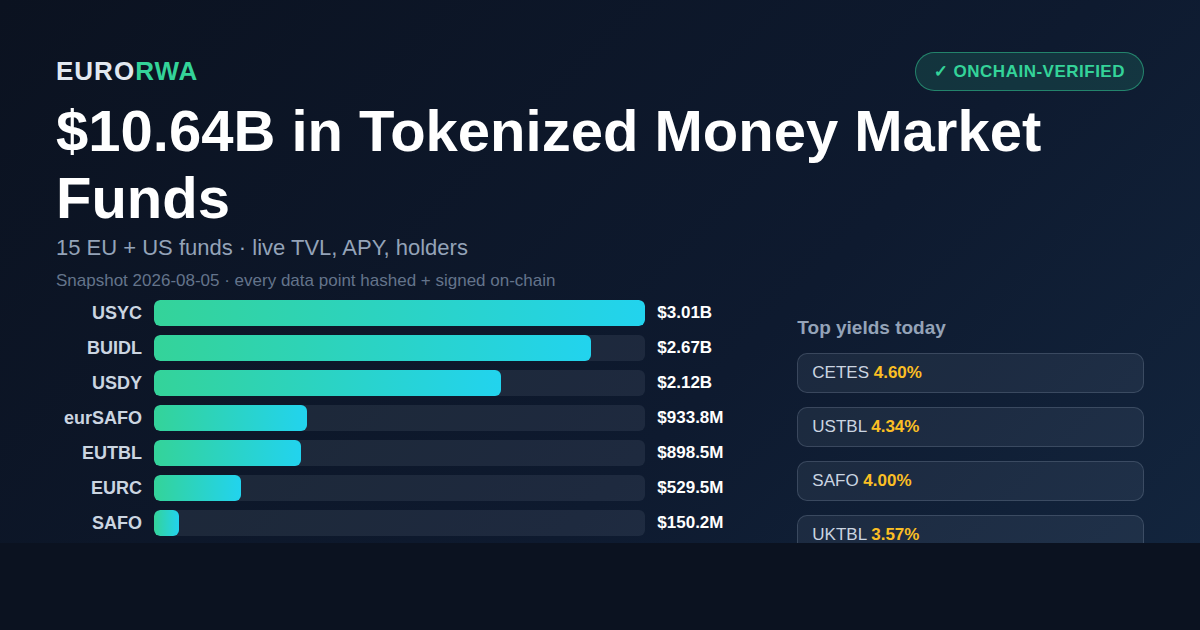
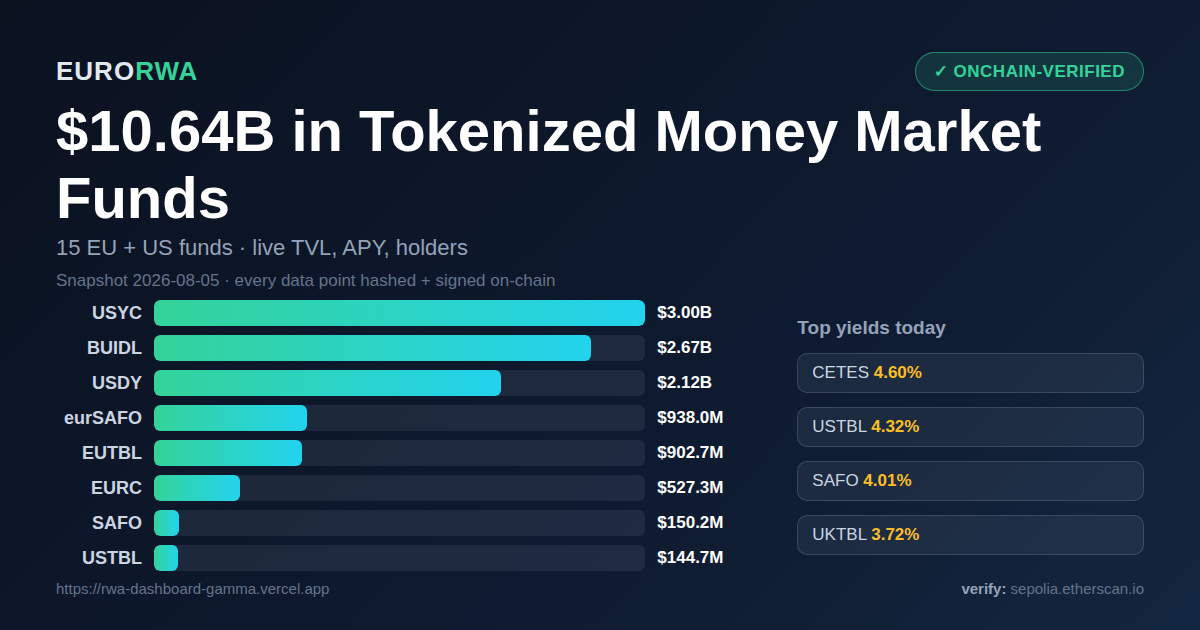
chore: pipeline 2026-08-05

diff --git a/docs/posts/2026-08-05/visual.html b/docs/posts/2026-08-05/visual.html
@@ -38,46 +38,46 @@ body{background:#0b1220;font-family:"Segoe UI",Arial,sans-serif;color:#e2e8f0;-w
     <div class="bar-row">
       <div class="bar-label">USYC</div>
       <div class="bar-track"><div class="bar-fill" style="width:100%"></div></div>
-      <div class="bar-val">$3.01B</div>
+      <div class="bar-val">$3.00B</div>
     </div>
     <div class="bar-row">
       <div class="bar-label">BUIDL</div>
-      <div class="bar-track"><div class="bar-fill" style="width:88.96483316275874%"></div></div>
+      <div class="bar-track"><div class="bar-fill" style="width:89.0397470620453%"></div></div>
       <div class="bar-val">$2.67B</div>
     </div>
     <div class="bar-row">
       <div class="bar-label">USDY</div>
-      <div class="bar-track"><div class="bar-fill" style="width:70.60148820856293%"></div></div>
+      <div class="bar-track"><div class="bar-fill" style="width:70.66836044410714%"></div></div>
       <div class="bar-val">$2.12B</div>
     </div>
     <div class="bar-row">
       <div class="bar-label">eurSAFO</div>
-      <div class="bar-track"><div class="bar-fill" style="width:31.05809258212833%"></div></div>
-      <div class="bar-val">$933.8M</div>
+      <div class="bar-track"><div class="bar-fill" style="width:31.225743321278408%"></div></div>
+      <div class="bar-val">$938.0M</div>
     </div>
     <div class="bar-row">
       <div class="bar-label">EUTBL</div>
-      <div class="bar-track"><div class="bar-fill" style="width:29.88366876766337%"></div></div>
-      <div class="bar-val">$898.5M</div>
+      <div class="bar-track"><div class="bar-fill" style="width:30.04904497470901%"></div></div>
+      <div class="bar-val">$902.7M</div>
     </div>
     <div class="bar-row">
       <div class="bar-label">EURC</div>
-      <div class="bar-track"><div class="bar-fill" style="width:17.61065347445668%"></div></div>
-      <div class="bar-val">$529.5M</div>
+      <div class="bar-track"><div class="bar-fill" style="width:17.552534919166035%"></div></div>
+      <div class="bar-val">$527.3M</div>
     </div>
     <div class="bar-row">
       <div class="bar-label">SAFO</div>
-      <div class="bar-track"><div class="bar-fill" style="width:4.994397980146461%"></div></div>
+      <div class="bar-track"><div class="bar-fill" style="width:4.998987099799539%"></div></div>
       <div class="bar-val">$150.2M</div>
     </div>
     <div class="bar-row">
       <div class="bar-label">USTBL</div>
-      <div class="bar-track"><div class="bar-fill" style="width:4.840148852369807%"></div></div>
-      <div class="bar-val">$145.5M</div>
+      <div class="bar-track"><div class="bar-fill" style="width:4.8172313718000455%"></div></div>
+      <div class="bar-val">$144.7M</div>
     </div></div>
     <div class="side">
       <div class="title">Top yields today</div>
-      <span class="chip">CETES <b>4.60%</b></span><span class="chip">USTBL <b>4.34%</b></span><span class="chip">SAFO <b>4.00%</b></span><span class="chip">UKTBL <b>3.57%</b></span>
+      <span class="chip">CETES <b>4.60%</b></span><span class="chip">USTBL <b>4.32%</b></span><span class="chip">SAFO <b>4.01%</b></span><span class="chip">UKTBL <b>3.72%</b></span>
     </div>
   </div>
   <div class="foot"><span>https://rwa-dashboard-gamma.vercel.app</span><span><b>verify:</b> sepolia.etherscan.io</span></div>

diff --git a/docs/posts/2026-08-05/ready.md b/docs/posts/2026-08-05/ready.md
@@ -6,9 +6,9 @@
 ## X (Twitter)
 
 Tokenized MMFs: $10.64B across 15 EU/US funds (2026-08-05)
-🥇 USYC $3.01B
-📈 Top yield: CETES 4.60% · USTBL 4.34% · SAFO 4.00%
-🔄 7d: eurSAFO +3.70%
+🥇 USYC $3.00B
+📈 Top yield: CETES 4.60% · USTBL 4.32% · SAFO 4.01%
+🔄 7d: eurSAFO +3.09%
 Onchain-verified daily: https://rwa-dashboard-gamma.vercel.app
 #RWA #Tokenization #MoneyMarketFunds
 
@@ -23,16 +23,16 @@ Live data, refreshed daily (onchain-verified — each snapshot is hashed + signe
 Top 5 by TVL:
 | Ticker | TVL | APY | 7d | Holders |
 |---|---|---|---|---|
-| USYC | $3.01B | 3.19% | 0.04% | 38 |
-| BUIDL | $2.67B | 3.38% | 2.54% | 114 |
-| USDY | $2.12B | 3.49% | -0.04% | 15559 |
-| eurSAFO | $933.8M | 2.53% | 3.70% | 7394 |
-| EUTBL | $898.5M | 2.21% | -4.27% | 3824 |
+| USYC | $3.00B | 3.19% | -0.05% | 38 |
+| BUIDL | $2.67B | 3.38% | 1.40% | 114 |
+| USDY | $2.12B | 3.49% | -0.04% | 15579 |
+| eurSAFO | $938.0M | 2.54% | 3.09% | 7409 |
+| EUTBL | $902.7M | 2.13% | -2.66% | 3817 |
 
-Top yields: CETES 4.60%, USTBL 4.34%, SAFO 4.00%, UKTBL 3.57%, USDY 3.49%
-Biggest 7d mover: eurSAFO +3.70%, EUTBL -4.27%
+Top yields: CETES 4.60%, USTBL 4.32%, SAFO 4.01%, UKTBL 3.72%, USDY 3.49%
+Biggest 7d mover: eurSAFO +3.09%, EUTBL -2.66%
 
-What the numbers mean: $7.80B (~73%) is in just 3 funds. Yields span 2.39 points (2.21% → 4.60%). USDY has 15,559 holders vs 114 for BUIDL.
+What the numbers mean: $7.80B (~73%) is in just 3 funds. Yields span 2.46 points (2.13% → 4.60%). USDY has 15,579 holders vs 114 for BUIDL.
 
 Dashboard: https://rwa-dashboard-gamma.vercel.app
 Repo (attestation code): https://github.com/crytobot459/eurorwa
@@ -50,20 +50,20 @@ I built a live dashboard to change that. Here's what the data says today, and th
 THE NUMBERS (2026-08-05)
 
 $10.64B across 15 EU + US funds:
-• USYC (Circle) — $3.01B · yield 3.19%
+• USYC (Circle) — $3.00B · yield 3.19%
 • BUIDL (BlackRock) — $2.67B · yield 3.38%
 • USDY (Ondo) — $2.12B · yield 3.49%
-• eurSAFO (Spiko) — $933.8M · yield 2.53%
-• EUTBL (Spiko) — $898.5M · yield 2.21%
+• eurSAFO (Spiko) — $938.0M · yield 2.54%
+• EUTBL (Spiko) — $902.7M · yield 2.13%
 
-Top yields today: CETES 4.60% · USTBL 4.34% · SAFO 4.00% · UKTBL 3.57% · USDY 3.49%
+Top yields today: CETES 4.60% · USTBL 4.32% · SAFO 4.01% · UKTBL 3.72% · USDY 3.49%
 
 WHAT THE NUMBERS MEAN
 
 • $7.80B — 73% of the total — sits in just 3 funds (USYC, BUIDL, USDY). The market is consolidating behind the biggest issuers, fast.
-• Yield on offer runs from 2.21% to 4.60% — a 2.39-point gap for the same "park cash safely" trade. Which treasury you pick is now a real decision.
-• USDY counts 15,559 holders; BUIDL counts 114. Same asset class, two worlds: retail wallets vs institutions parking billions.
-• eurSAFO is the 7-day mover (+3.70%), while EUTBL cooled off (-4.27%). Capital is rotating, not leaving the asset class.
+• Yield on offer runs from 2.13% to 4.60% — a 2.46-point gap for the same "park cash safely" trade. Which treasury you pick is now a real decision.
+• USDY counts 15,579 holders; BUIDL counts 114. Same asset class, two worlds: retail wallets vs institutions parking billions.
+• eurSAFO is the 7-day mover (+3.09%), while EUTBL cooled off (-2.66%). Capital is rotating, not leaving the asset class.
 
 WHY THIS MATTERS
 
@@ -88,7 +88,7 @@ Live proof for this snapshot (Sepolia):
 
 WHAT THE DATA SAYS RIGHT NOW
 
-eurSAFO is the 7-day mover (+3.70%), while EUTBL cooled off (-4.27%). The rotation between EUR and USD funds is the story to watch.
+eurSAFO is the 7-day mover (+3.09%), while EUTBL cooled off (-2.66%). The rotation between EUR and USD funds is the story to watch.
 
 Live dashboard: https://rwa-dashboard-gamma.vercel.app
 Open source: https://github.com/crytobot459/eurorwa
